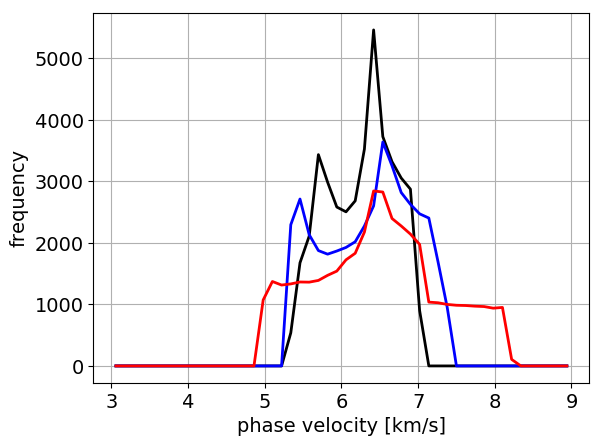
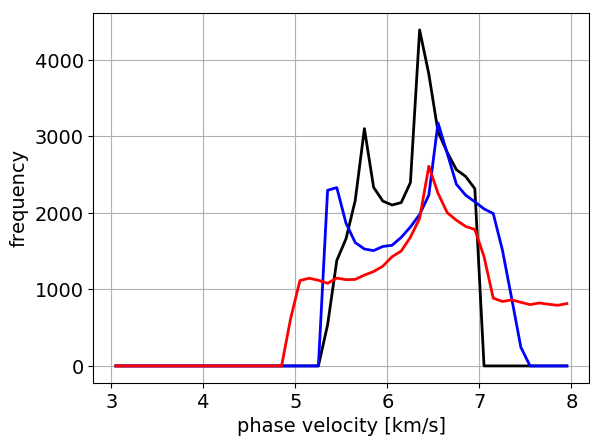
EOD upload

diff --git a/Src/FDM/main.cpp b/Src/FDM/main.cpp
@@ -5,6 +5,25 @@
 #include <random>
 
 using namespace std;
+
+double cp_gen(int num){
+	static std::mt19937 eg1(-1);
+	static std::mt19937 eg2(-1);
+	static std::mt19937 eg3(-1);
+
+	static std::normal_distribution<> Gss1(2.0,1.50);
+	static std::normal_distribution<> Gss2(4.0,1.50);
+	static std::normal_distribution<> Gss3(6.5,1.50);
+
+	double cp;
+	
+	cp=0.0;
+	if(num==0) cp=Gss1(eg1);
+	if(num==1) cp=Gss2(eg2);
+	if(num==2) cp=Gss3(eg3);
+
+	return(cp);
+};
 int main(){
 	std::random_device seed;
 	std::mt19937 engine(-1);
@@ -17,15 +36,34 @@ int main(){
 	Dom2D dom(fgeom);
 
 	double xc[2],a,b;
-	int i;
-	a=0.6;
-	b=0.4;
+	int i,j;
+	a=0.3;
+	b=0.3;
 	dom.perfo_ellip(fgeom);
-	for(i=0;i<400;i++){
+	int Np=400;
+	for(i=0;i<Np;i++){
 		xc[0]=urnd(engine)*dom.Wd[0];
 		xc[1]=urnd(engine)*dom.Wd[1];
-		dom.perfo_ellip(xc,a,b,i%4);
+		//dom.perfo_ellip(xc,a,b,i%3);
+		dom.perfo_ellip(xc,a,b,i);
 	};
+
+	double *cp0;
+
+	cp0=(double *)malloc(sizeof(double)*Np);
+	for(i=0;i<Np;i++) cp0[i]=cp_gen(i%3);
+
+
+	int typ;
+	for(i=0;i<dom.Ndiv[0];i++){
+	for(j=0;j<dom.Ndiv[1];j++){
+		typ=dom.kcell[i][j];
+		dom.cp[i][j]=cp0[typ];
+		dom.kcell[i][j]=typ%3;
+	}
+	}
+	dom.out_cp();
 	dom.out_kcell();
+
 	return(0);
 };

diff --git a/Src/FDM/cp.py b/Src/FDM/cp.py
@@ -1,0 +1,50 @@
+import numpy as np
+import matplotlib.pyplot as plt
+
+class cp_data:
+
+    def __init__(self):
+        fp=open("cp.dat","r")
+
+        fp.readline()
+        dat=fp.readline().strip(); dat=dat.split(" ")
+        Xa=[float(dat[0]),float(dat[1])]
+        print(Xa)
+
+        dat=fp.readline().strip(); dat=dat.split(" ")
+        Xb=[float(dat[0]),float(dat[1])]
+
+        fp.readline()
+        dat=fp.readline().strip(); dat=dat.split(" ")
+        Ndiv=[int(dat[0]),int(dat[1])]
+        fp.readline()
+
+        print("Ndiv=",Ndiv)
+        cp=[]
+        for row in fp:
+            cp.append(float(row))
+        cp=np.array(cp)
+        cp=np.reshape(cp,Ndiv)
+        print(np.shape(cp))
+        cp=np.transpose(cp)
+        
+        self.Xa=Xa
+        self.Xb=Xb
+        self.Ndiv=Ndiv
+        self.cp=cp
+    def show_cp(self,ax):
+        Xa=self.Xa
+        Xb=self.Xb
+        ext=[Xa[0],Xb[0],Xa[1],Xb[1]]
+        ax.imshow(self.cp,extent=ext,cmap="jet",origin="lower",interpolation="none")
+
+
+if __name__=="__main__":
+
+    Vel=cp_data()
+
+    fig=plt.figure()
+    ax=fig.add_subplot(111)
+
+    Vel.show_cp(ax)
+    plt.show()

diff --git a/Src/FDM/domain.cpp b/Src/FDM/domain.cpp
@@ -56,10 +56,15 @@ void Dom2D::mem_alloc(){
 	for(j=0;j<Ndiv[1];j++){
 		kcell[i][j]=0;
 	}}
+
+	double *tmp=(double *)malloc(sizeof(double)*Ndiv[0]*Ndiv[1]);
+	cp=(double **)malloc(sizeof(double*)*Ndiv[0]);
+	for(i=0;i<Ndiv[0]*Ndiv[1];i++) tmp[i]=0.0;
+	for(i=0; i<Ndiv[0];i++) cp[i]=tmp+(i*Ndiv[1]);
 };
 
 //  ----------- DOMAIN PERFORATION  --------------
-void Dom2D::perfo_ellip(double *xc, double a, double b,int num){
+void Dom2D::perfo_ellip(double xc[2], double a, double b,int num){
 	int i,j;
 	double xcod[2];
 	double xx,yy;
@@ -387,6 +392,25 @@ void Dom2D :: out_kcell(){
 	}
 
 	fflush(fp);
+};
+void Dom2D :: out_cp(){
+
+	FILE *fp=fopen("cp.dat","w");
+	int i,j;
+
+
+	fprintf(fp,"# Xa[2], Xb[2] (physical domain) \n");
+	fprintf(fp," %lf %lf\n %lf %lf\n",Xa[0],Xa[1],Xb[0],Xb[1]);
+	fprintf(fp,"# Ndiv[0], Ndiv[1]\n");
+	fprintf(fp,"%d %d\n",Ndiv[0],Ndiv[1]);
+	fprintf(fp,"# cp[i][j]\n");
+	for(i=0;i<Ndiv[0];i++){
+	for(j=0;j<Ndiv[1];j++){
+		fprintf(fp, "%lf\n",cp[i][j]);
+	}
+	}
+	fflush(fp);
+	fclose(fp);
 };
 
 //-------------COURANT NUMBER  ------------------

diff --git a/Src/FDM/fdm2d.h b/Src/FDM/fdm2d.h
@@ -28,6 +28,7 @@ class Dom2D{
 		int Nx[2],Ndiv[2],nwa[2],nwb[2];
 		int Ng;	// number of grids of a specified type
 		int **kcell;
+		double **cp;
 		void perfo(char *fn);
 		void perfo_ellip(char *fn);
 		void perfo_ellip(double *xc, double a, double b, int num);
@@ -35,6 +36,7 @@ class Dom2D{
 		void angled_slit(char *fn);
 		void polygon(char *fn);
 		void out_kcell();
+		void out_cp();
 		Dom2D(char *fname);
 		void CFL(double dt);
 		void gridNum(int ityp);

diff --git a/Pycodes/Cij.py b/Pycodes/Cij.py
@@ -177,6 +177,7 @@ class STIFF:
     def hist(self,ax,clr="k"):
         nbin=50
         hist,bins=np.histogram(self.Pvel,weights=self.wgt,bins=nbin,range=(3,9))
+        hist,bins=np.histogram(self.Pvel,weights=self.wgt,bins=nbin,range=(3,8))
         Bin=0.5*(bins[0:-1]+bins[1:])
         ax.plot(Bin,hist,"-"+clr,linewidth=2)
         ax.grid(True)
